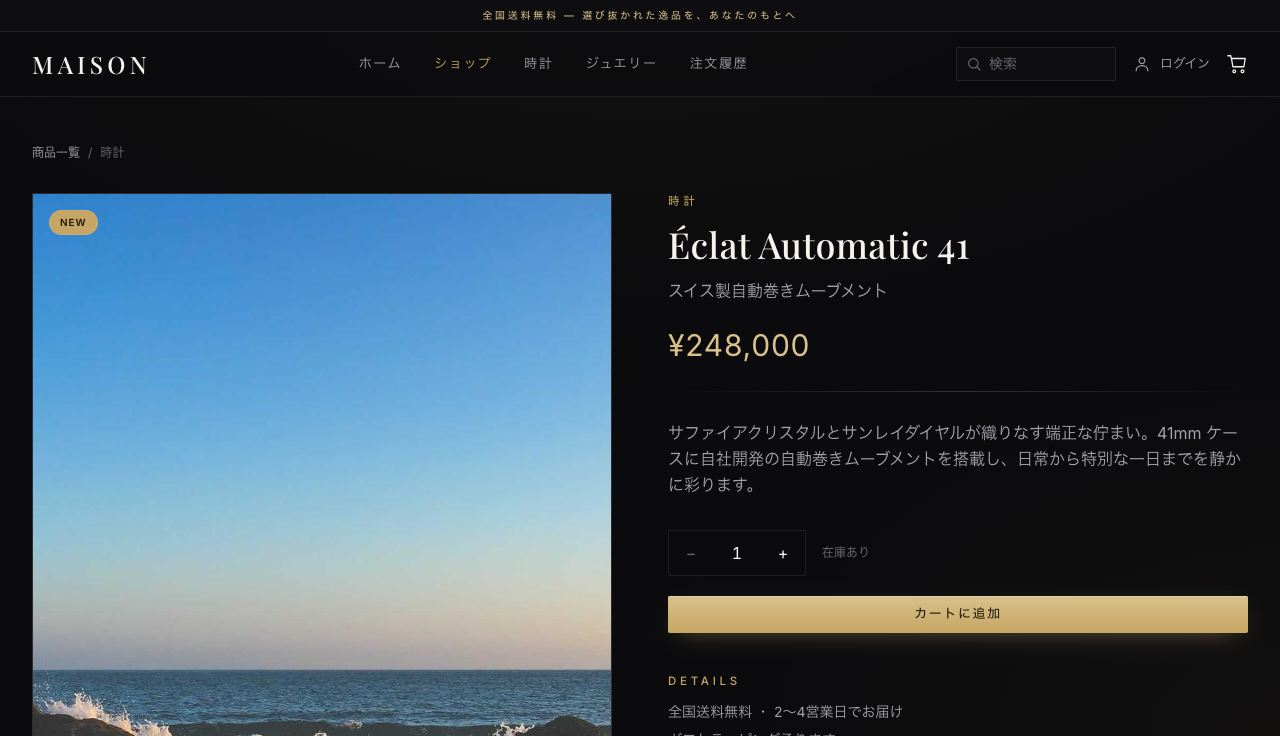
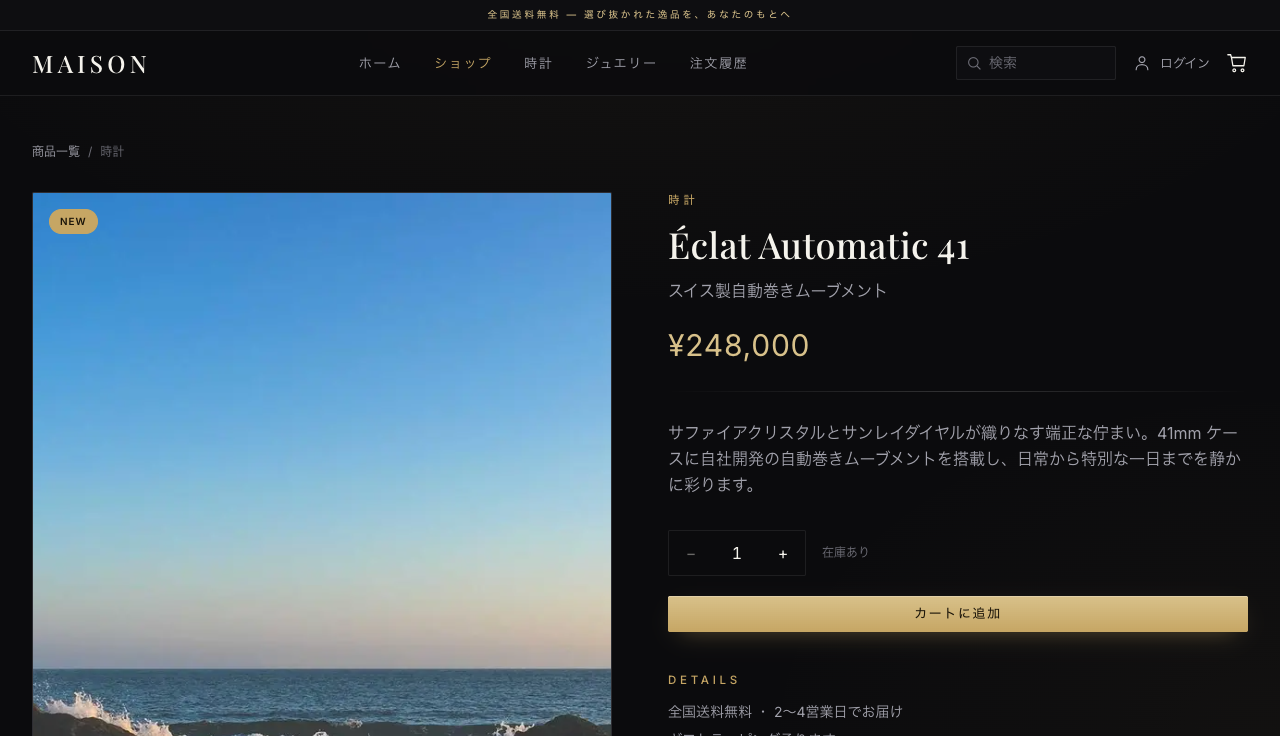
UI: 使われなくなったクラスとトークンを消し、README にデザインの書き方と新ページを足し、スクリーンショットを撮り直す（見た目は変えない）
- 消したもの: .btn-ghost / .hairline-gold / .container-form（Section の width "form"）/ --gold-a55 / --color-success（いずれも参照 0）
- 段 14（c3e6789）との前後比較: 4 幅 x 全状態の 93 枚で差分画素 0

diff --git a/components/ui/Section.js b/components/ui/Section.js
@@ -1,11 +1,11 @@
 import { cx } from "./cx";
 
 const SPACING = { sm: "section-sm", md: "section-md", lg: "section-lg", top: "section-top" };
-const WIDTH = { wide: null, narrow: "container-narrow", form: "container-form" };
+const WIDTH = { wide: null, narrow: "container-narrow" };
 
 /**
  * ページの節。コンテナ（.container-lux）と上下余白（⑤-0 の sm / md / lg / top）を 1 つの要素に付ける。
- * @param {{ as?: string, spacing?: "sm" | "md" | "lg" | "top", width?: "wide" | "narrow" | "form", className?: string, children?: React.ReactNode }} props
+ * @param {{ as?: string, spacing?: "sm" | "md" | "lg" | "top", width?: "wide" | "narrow", className?: string, children?: React.ReactNode }} props
  */
 export default function Section({ as: Tag = "section", spacing = "md", width = "wide", className, children, ...rest }) {
   return (

diff --git a/app/styles/tokens.css b/app/styles/tokens.css
@@ -20,7 +20,6 @@
   --color-gold-deep: #9c7f45;
 
   /* ---- Feedback ---- */
-  --color-success: #6fbf8b;
   --color-danger: #d98a7a;
 
   /* ---- Fonts (layout.tsx の next/font が変数を供給) ---- */
@@ -44,7 +43,6 @@
   --gold-a28: rgba(198, 166, 100, 0.28);
   --gold-a35: rgba(198, 166, 100, 0.35);
   --gold-a45: rgba(198, 166, 100, 0.45);
-  --gold-a55: rgba(198, 166, 100, 0.55);
   --gold-a60: rgba(198, 166, 100, 0.6);
 
   /* 金の面の上の文字色 */

diff --git a/app/styles/components/button.css b/app/styles/components/button.css
@@ -46,17 +46,6 @@
     background: var(--gold-a08);
   }
 
-  /* 目立たないゴースト */
-  .btn-ghost {
-    background: transparent;
-    color: var(--color-muted);
-    border: 1px solid var(--color-line);
-  }
-  .btn-ghost:hover:not(:disabled) {
-    color: var(--color-cream);
-    border-color: var(--color-line-strong);
-  }
-
   .btn-sm {
     padding: 0.5rem 1rem;
     font-size: var(--fs-btn-sm);

diff --git a/app/styles/components/divider.css b/app/styles/components/divider.css
@@ -6,10 +6,6 @@
     width: 100%;
     background: linear-gradient(90deg, transparent, var(--color-line-strong), transparent);
   }
-  .hairline-gold {
-    height: 1px;
-    background: linear-gradient(90deg, transparent, var(--gold-a55), transparent);
-  }
   /* 見出し下などに置く短いゴールド線 */
   .rule-gold {
     display: inline-block;

diff --git a/app/styles/components/layout.css b/app/styles/components/layout.css
@@ -18,9 +18,6 @@
   .container-narrow {
     max-width: 36rem;
   }
-  .container-form {
-    max-width: 28rem;
-  }
 }
 
 /* ページの上下余白（⑤-0: sm / md / lg + トップ専用） */
